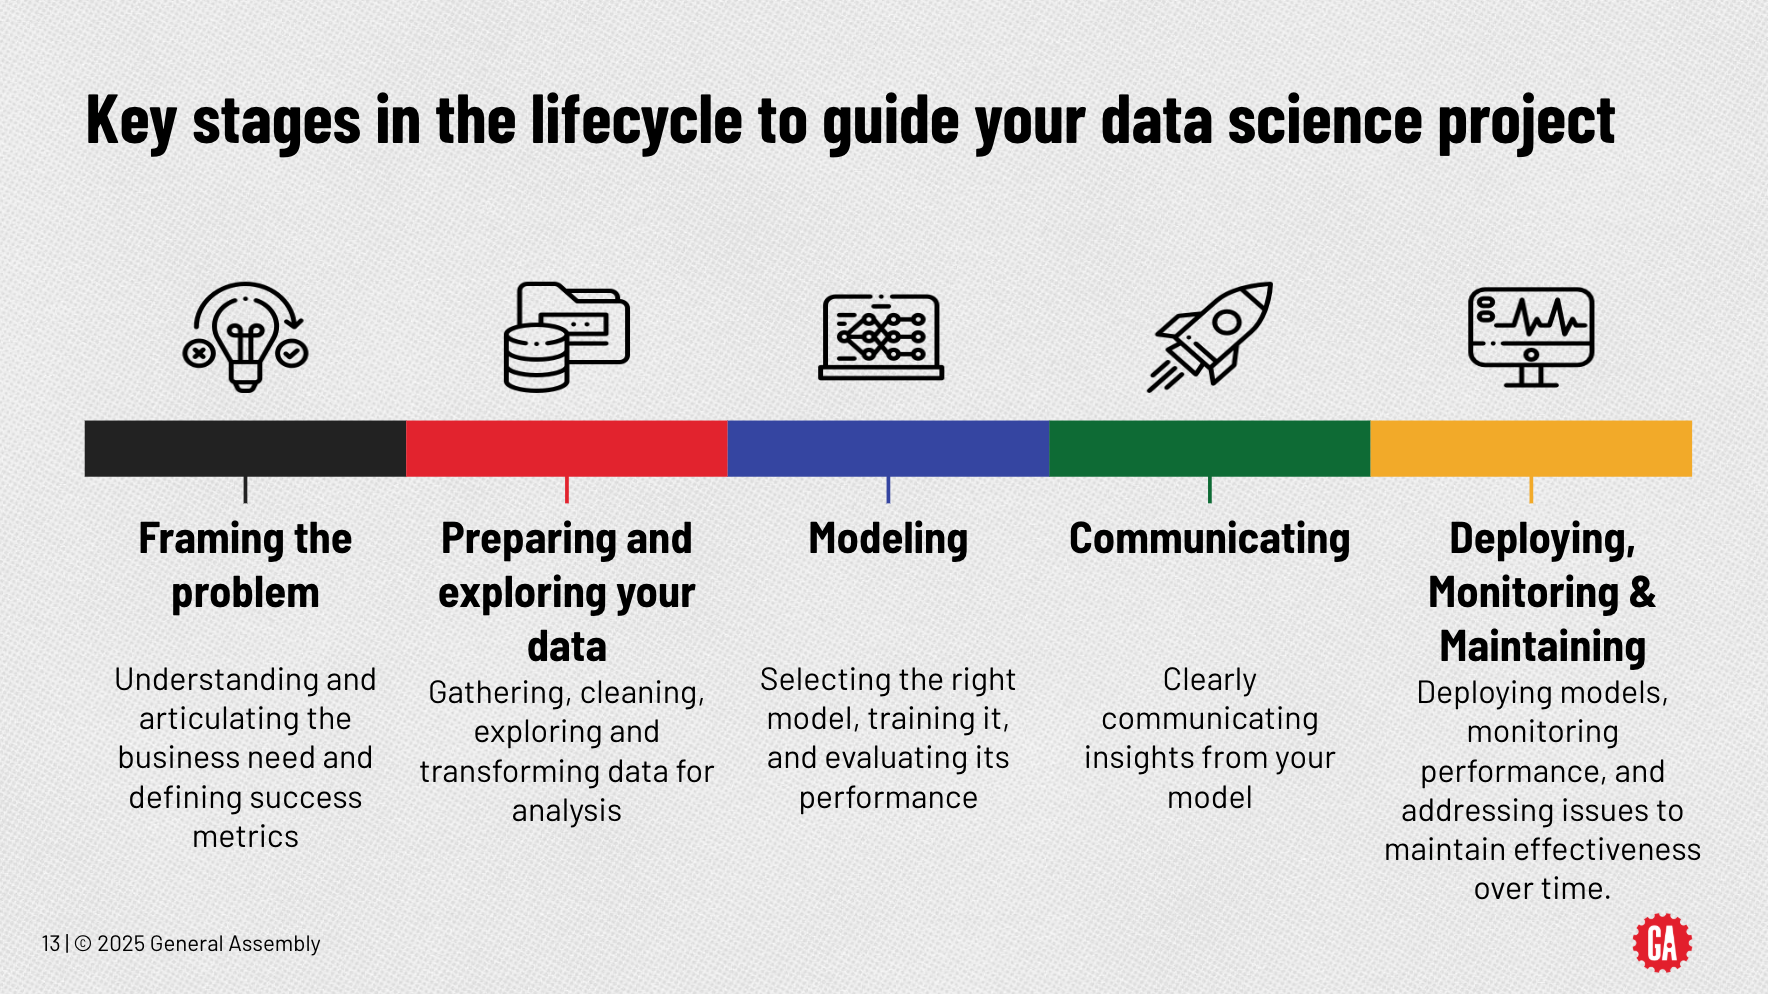
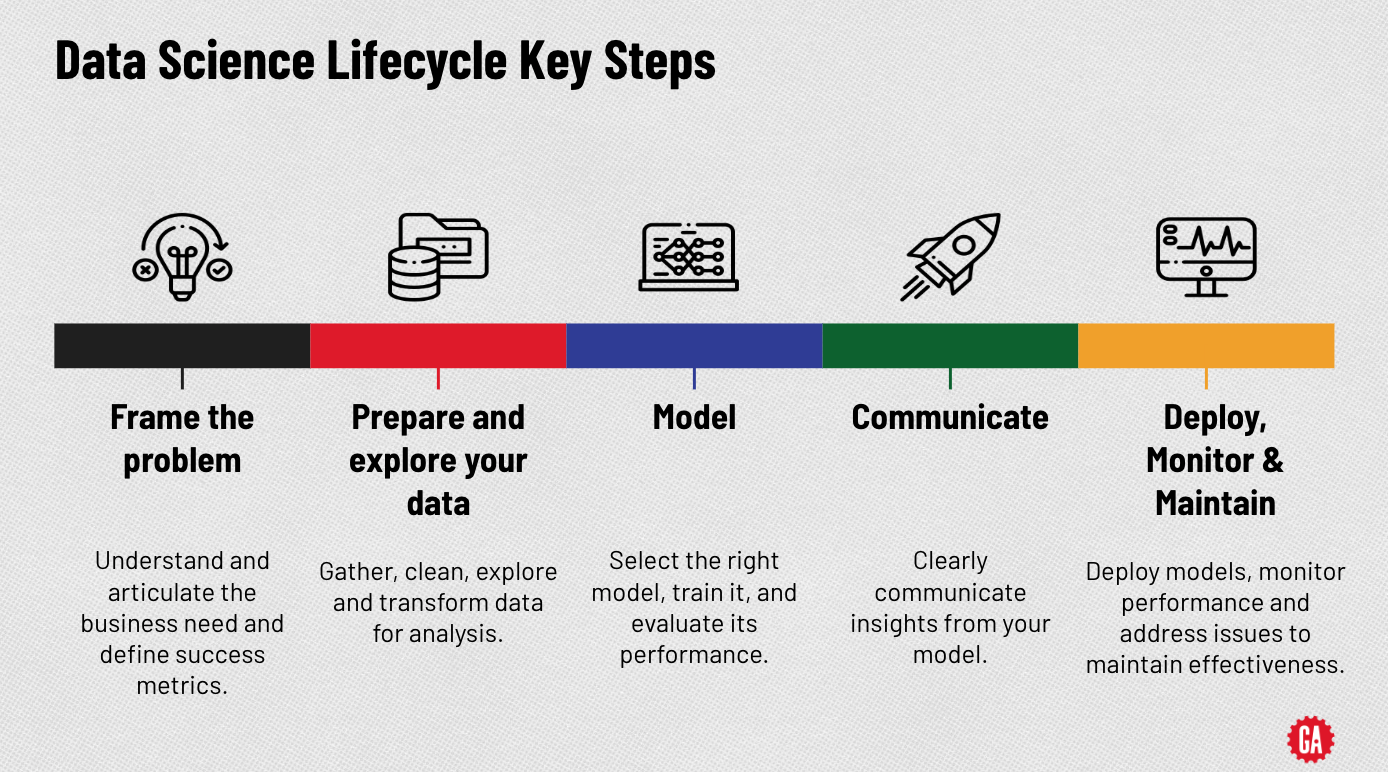
updated the Welcome page to reflect the updated Data Science Lifecycle being rolled out with DSB

diff --git a/welcome/README.md b/welcome/README.md
@@ -116,19 +116,19 @@ The skills that General Assembly Data Science students learn align most closely 
 
 ## How Do Data Scientists Solve Problems?
 
-Most data scientists apply a version of the scientific method to analyze an issue. At General Assembly, we call this the **Data Science Workflow**, and we’ve broken it down into a series of steps.
+Most data scientists apply a version of the scientific method to analyze an issue. At General Assembly, we call this the **Data Science Lifecycle**, and we’ve broken it down into a series of steps.
 
-1. **Frame**: Develop a hypothesis-driven approach to your analysis.
+1. **Frame the Problem**: Understand and articulate the business need and define success metrics.
 
-2. **Prepare**: Select, import, explore, and clean your data.
+2. **Prepare and Explore Your Data**: Gather, clean, explore and transform data for analysis.
 
-3. **Analyze**: Structure, visualize, and complete your analysis.
+3. **Model**: Select the right model, train it, and evaluate its performance.
 
-4. **Interpret**: Create recommendations and business decisions from your data.
+4. **Communicate**: Clearly communicate insights from your model.
 
-5. **Communicate**: Present insights from your data to different audiences.
+5. **Deploy, Monitor and Maintain**: Deploy models, monitor performance and address issues to maintain effectiveness.
 
-<img src="./assets/flow.png" width="850" />
+<img src="./assets/ds.png" width="850" />
 
 <br>
 
@@ -136,7 +136,7 @@ Most data scientists apply a version of the scientific method to analyze an issu
 
 Our problem-solving framework helps produce results that are **reliable** (so findings are more accurate) and **reproducible** (so that others can follow the same steps and achieve the same results).
 
-Note that, depending on the problem you’re trying to solve, the Data Science Workflow will not always be linear. You may have to repeat some steps before drawing any conclusions!
+Note that, depending on the problem you’re trying to solve, the Data Science Lifecycle will not always be linear. You may have to repeat some steps before drawing any conclusions!
 
 We’ll explore these steps through an example project in the following sectoins.
 
@@ -162,7 +162,7 @@ We might begin by asking questions like:
 
 <br>
 
-## Step 2: Preparing Our Data
+## Step 2: Preparing and Exploring Our Data
 
 In Step 2, we **prepare** our data. To start, we’ll want to select and import the data we intend to use. We might do this by asking a series of questions:
 
@@ -197,7 +197,7 @@ We have the following Planetary Express data:
 
 So, what do we need to do next?
 
-## Step 2: Preparing Our Data (Cont.)
+## Step 2: Preparing and Exploring Our Data (Cont.)
 
 If you guessed, “Figure out a way to load our data and take a look at it,” you’d be right! There are many ways to do this in Python (a back-end programming language). Let’s skip to the next step and begin exploring our data.
 
@@ -217,7 +217,7 @@ Looks like we have some cleaning to do.
 
 Whether you’ve collected your own data or are working with data prepared by others, you’ll almost *always* need to devote some energy to cleaning.
 
-## Step 2: Preparing Our Data (Cont.)
+## Step 2: Preparing and Exploring Our Data (Cont.)
 
 Data scientists frequently joke that they spend about 80 percent of their time cleaning data and only 20 percent actually creating predictive models. In other words, *data cleaning is a fact of life*.
 
@@ -232,7 +232,7 @@ Data cleaning methods include, but are not exclusive to:
 - Sample your data.
 - Create columns derived from our data (e.g., feature engineering).
 
-## Step 3: Analyzing Our Data
+## Step 3: Modeling Our Data
 
 Let’s assume we’ve finished up and our data set is now squeaky clean. Bravo! Time to move on.
 
@@ -250,7 +250,7 @@ To do this, you might start by calculating some basic statistics or visualizing 
 
 <br>
 
-## Step 4: Interpreting Our Data
+## Step 3: Modeling Our Data (Cont.)
 
 Once we’ve visualized and analyzed our data, we’ll be able to **interpret** it. But, what does that mean?
 
@@ -266,10 +266,6 @@ How does this work? We might:
 
 Our hypothesis from Step 1 should guide our approach and analysis in Steps 2 and 3. In Step 4, our goal is to create a general model that interprets our data and resolves our hypothesis. Once we’ve tested this model on new data, we’ll be able to use it to make predictions and justify future decisions.
 
-<img src="./assets/interpret.png" width="350" />
-
-<br>
-
 You may be thinking, “Is it really that simple?”
 
 Yes and no. We’ve simplified this process a bit; selecting and building models is both an art and a science. For one thing, there are *many* different types of models and approaches to choose from.
@@ -278,7 +274,7 @@ However, most data practitioners don’t memorize all of them — they merely le
 
 General Assembly’s data science training helps students learn about a variety of methods that can be used to solve more than 70 percent of data problems people encounter in the field, including regression, classification, k-nearest neighbors, clustering, and more!
 
-## Step 5: Communicating Our Findings
+## Step 4: Communicating Our Findings
 
 Once you’ve successfully built a model that can interpret your data and help justify real-world recommendations, what next?
 
@@ -315,19 +311,28 @@ A few key components to consider, include:
 - Explaining your model’s strengths and limitations.
 - Providing an appropriate degree of disclosure for your audience (especially when dealing with proprietary data or sensitive user information).
 
-## Off We Go!
 
-There you have it — General Assembly’s Data Science Workflow at a high level. This problem-solving framework will serve as your guide throughout our programs (and your career).
+## Step 5: Deploying, Monitoring & Maintaining Our Model
 
-<img src="./assets/flow.png" width="850" />
+Now that you’ve built a model and got buy-in that it should be used, you need to use it with real data.
+
+Step 5 involves implementing the data science solution in a real-world environment, continuously monitoring its performance, and maintaining its effectiveness over time.
+
+This includes addressing any issues that arise, updating the model with new data patterns, and ensuring the solution continues to meet business needs.
+
+In our Planetary Express example, this might mean that we can identify in real-time whether a user is likely to become a repeat customer at the point they are booking in a shipping order, and we can then offer different products for those who are likely compared with those who are not likely to repeat.
+
+<img src="./assets/interpret.png" width="350" />
 
 <br>
 
-## Wrap Up: The Data Science Workflow
 
-Here is another visual that breaks down this process with an added component at the end, Deploying, Monitoring, and Maintaining.  As you can see there is no one particular linear process that applies to every single project, and this is something you will get very familiar with via you own projects.  
+## Off We Go!
 
-![](./assets/ds.png)
+There you have it — General Assembly’s Data Science Lifecycle at a high level. This problem-solving framework will serve as your guide throughout our programs (and your career).
+
+<img src="./assets/ds.png" width="850" />
+
 
 <br>
 
